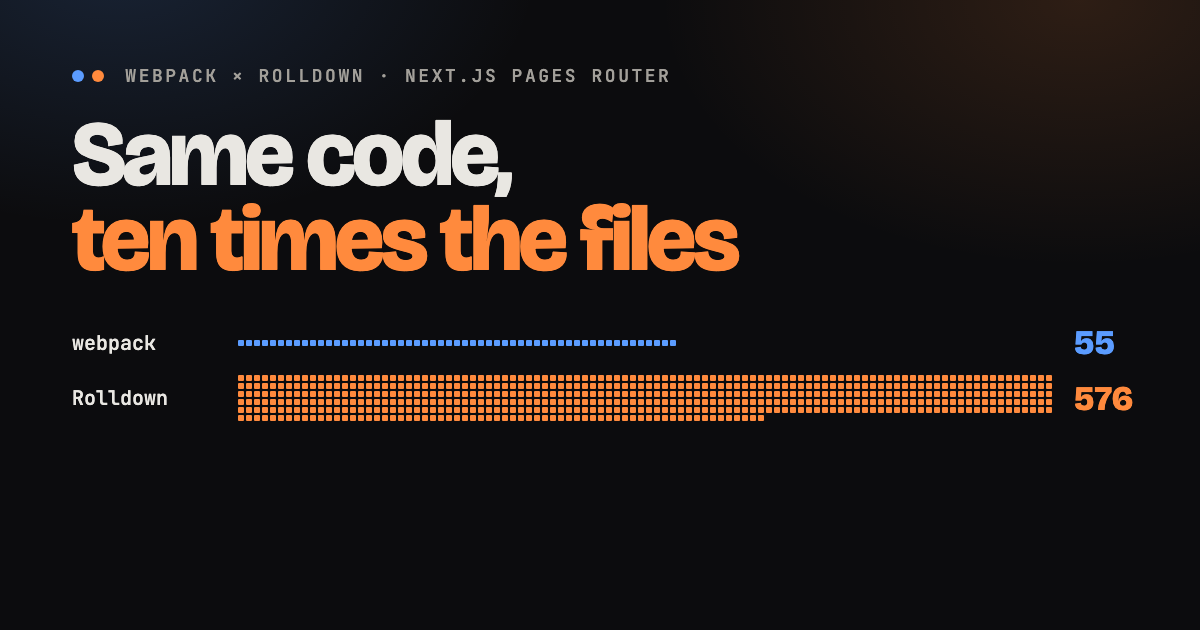
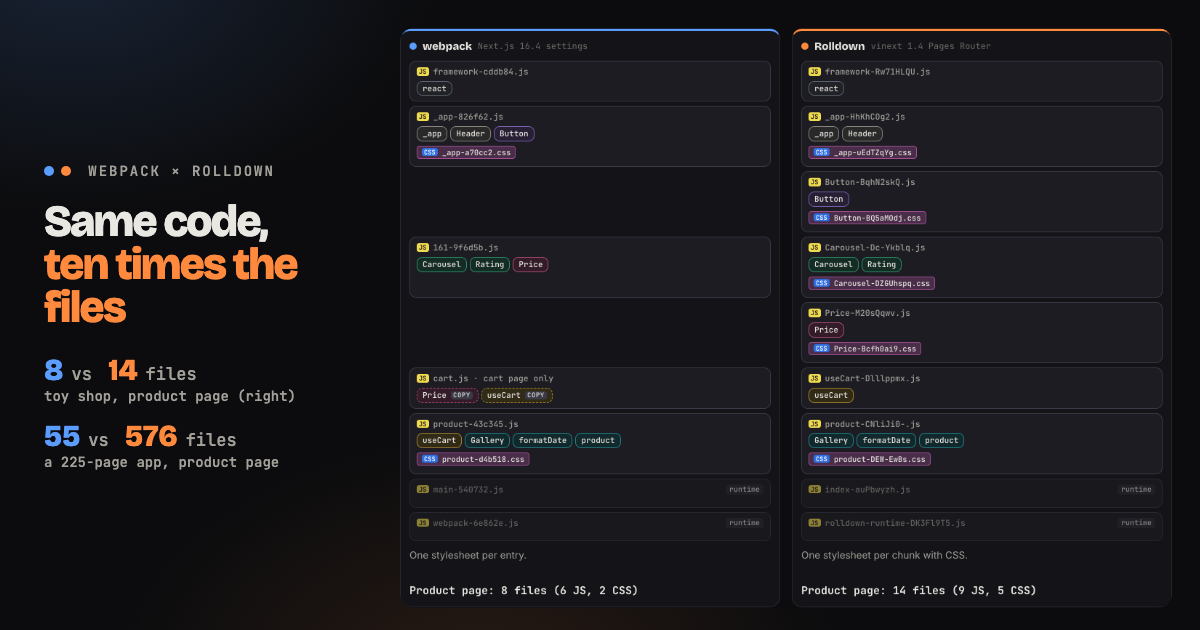
Use the final step of the packing figure as social card

diff --git a/assets/og.html b/assets/og.html
@@ -2,21 +2,19 @@
 <link href="https://fonts.googleapis.com/css2?family=Bricolage+Grotesque:opsz,wght@12..96,800&family=JetBrains+Mono:wght@500;700&display=swap" rel="stylesheet">
 <style>
 body{margin:0;width:1200px;height:630px;background:#0c0c0e;color:#e9e7e2;overflow:hidden;position:relative;font-family:"JetBrains Mono",monospace}
-body::before{content:"";position:absolute;inset:0;background:radial-gradient(600px 380px at 10% -40px,rgb(91 156 255/.16),transparent 70%),radial-gradient(600px 380px at 90% 0,rgb(255 138 61/.14),transparent 70%)}
-.in{position:relative;padding:64px 72px}
-.k{font-size:18px;letter-spacing:.14em;text-transform:uppercase;color:#a3a09a;display:flex;gap:8px;align-items:center}
-.k i{width:12px;height:12px;border-radius:50%;display:inline-block}
-h1{font:800 92px/.92 "Bricolage Grotesque";letter-spacing:-.04em;margin:26px 0 40px}
+body::before{content:"";position:absolute;inset:0;background:radial-gradient(520px 360px at 6% -40px,rgb(91 156 255/.16),transparent 70%),radial-gradient(520px 360px at 40% 110%,rgb(255 138 61/.12),transparent 70%)}
+.wrap{position:relative;display:grid;grid-template-columns:1fr 772px;gap:28px;height:100%;padding:28px 28px 28px 44px;box-sizing:border-box;align-items:center}
+.k{font-size:14px;letter-spacing:.14em;text-transform:uppercase;color:#a3a09a;display:flex;gap:7px;align-items:center}
+.k i{width:10px;height:10px;border-radius:50%;display:inline-block}
+h1{font:800 44px/.98 "Bricolage Grotesque";letter-spacing:-.04em;margin:20px 0 26px}
 h1 span{color:#ff8a3d}
-.row{display:grid;grid-template-columns:150px 1fr 90px;gap:16px;align-items:center;margin:12px 0;font-size:20px}
-.sq{display:flex;flex-wrap:wrap;gap:2px;width:820px}
-.sq b{width:6px;height:6px;border-radius:1px;display:block}
-.n{font:800 34px "Bricolage Grotesque"}
-</style></head><body><div class="in">
-<div class="k"><i style="background:#5b9cff"></i><i style="background:#ff8a3d"></i>&nbsp;webpack × Rolldown · Next.js Pages Router</div>
+.c{font-size:17px;line-height:1.7;color:#a3a09a}
+.c b{font:800 30px/1 "Bricolage Grotesque";margin-right:8px}
+.wp{color:#5b9cff}.rd{color:#ff8a3d}
+img{width:772px;height:auto;display:block;border-radius:14px}
+</style></head><body><div class="wrap">
+<div><div class="k"><i style="background:#5b9cff"></i><i style="background:#ff8a3d"></i>&nbsp;webpack × Rolldown</div>
 <h1>Same code,<br><span>ten times the files</span></h1>
-<div class="row"><span>webpack</span><div class="sq" id="w"></div><span class="n" style="color:#5b9cff">55</span></div>
-<div class="row"><span>Rolldown</span><div class="sq" id="r"></div><span class="n" style="color:#ff8a3d">576</span></div>
-</div><script>
-w.innerHTML='<b style="background:#5b9cff"></b>'.repeat(55); r.innerHTML='<b style="background:#ff8a3d"></b>'.repeat(576);
-</script></body></html>
+<div class="c"><div><b class="wp">8</b>vs <b class="rd" style="margin-left:6px">14</b>files</div><div style="font-size:14px;margin:-4px 0 12px">toy shop, product page (right)</div><div><b class="wp">55</b>vs <b class="rd" style="margin-left:6px">576</b>files</div><div style="font-size:14px;margin-top:-4px">a 225-page app, product page</div></div></div>
+<img src="og-lanes.png" alt="">
+</div></body></html>
